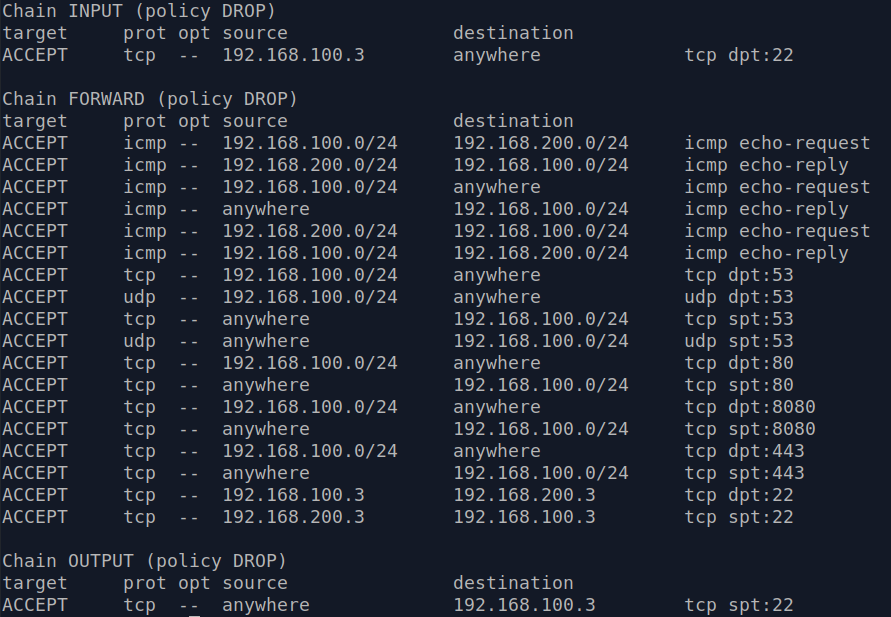
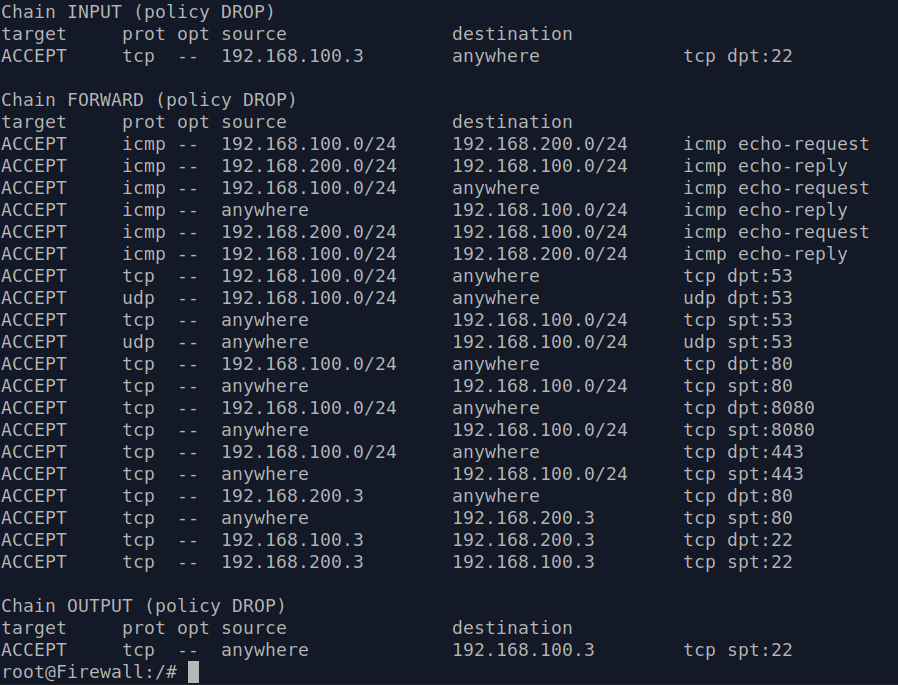
Fix règle pour la condition 5, update des screenshots

diff --git a/README.md b/README.md
@@ -143,6 +143,8 @@ _Lors de la définition d'une zone, spécifier l'adresse du sous-réseau IP avec
 |        WAN        |    192.168.100.0/24    |        TCP         |   8080   |    *     | ACCEPT |
 | 192.168.100.0/24  |          WAN           |        TCP         |   443    |    *     | ACCEPT |
 |        WAN        |    192.168.100.0/24    |        TCP         |    *     |   443    | ACCEPT |
+|   192.168.200.3   |       WAN + LAN        |        TCP         |    *     |    80    | ACCEPT |
+|     WAN + LAN     |     192.168.200.3      |        TCP         |    80    |    *     | ACCEPT |
 |   192.168.100.3   |     192.168.100.2      |        TCP         |    *     |    22    | ACCEPT |
 |   192.168.100.2   |     192.168.100.3      |        TCP         |    22    |    *     | ACCEPT |
 
@@ -524,6 +526,8 @@ iptables -A FORWARD -p tcp -s 192.168.100.0/24 --dport 80 -j ACCEPT
 iptables -A FORWARD -p tcp -d 192.168.100.0/24 --sport 80 -j ACCEPT
 iptables -A FORWARD -p tcp -s 192.168.100.0/24 --dport 8080 -j ACCEPT
 iptables -A FORWARD -p tcp -d 192.168.100.0/24 --sport 8080 -j ACCEPT
+iptables -A FORWARD -p tcp -s 192.168.100.0/24 --dport 443 -j ACCEPT
+iptables -A FORWARD -p tcp -d 192.168.100.0/24 --sport 443 -j ACCEPT
 ```
 
 ---
@@ -535,8 +539,8 @@ Commandes iptables :
 ---
 
 ```bash
-iptables -A FORWARD -p tcp -s 192.168.100.0/24 --dport 443 -j ACCEPT
-iptables -A FORWARD -p tcp -d 192.168.100.0/24 --sport 443 -j ACCEPT
+iptables -A FORWARD -p tcp -s 192.168.200.3 --dport 80 -j ACCEPT 
+iptables -A FORWARD -p tcp -d 192.168.200.3 --sport 80 -j ACCEPT 
 ```
 ---
 
@@ -547,8 +551,6 @@ iptables -A FORWARD -p tcp -d 192.168.100.0/24 --sport 443 -j ACCEPT
 ---
 
 ![wget](img/wget.png)
-
-![wget_https](img/wget_https.png)
 
 ---
 
